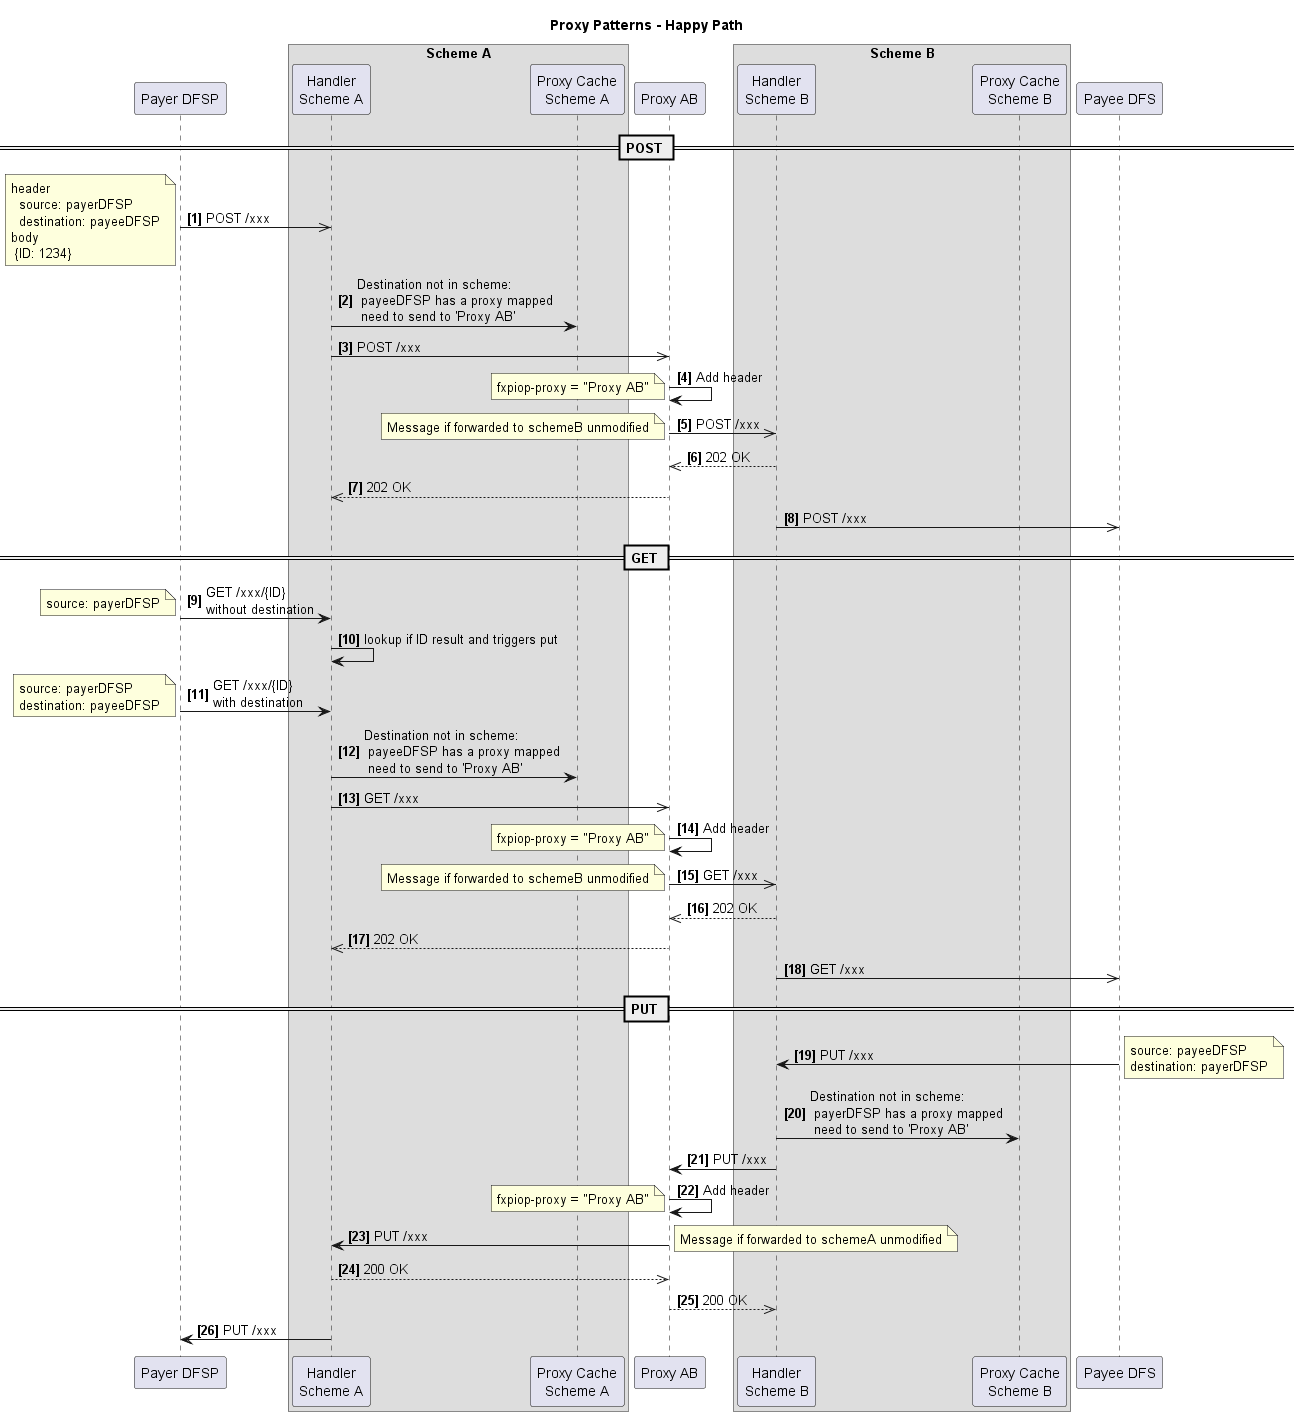
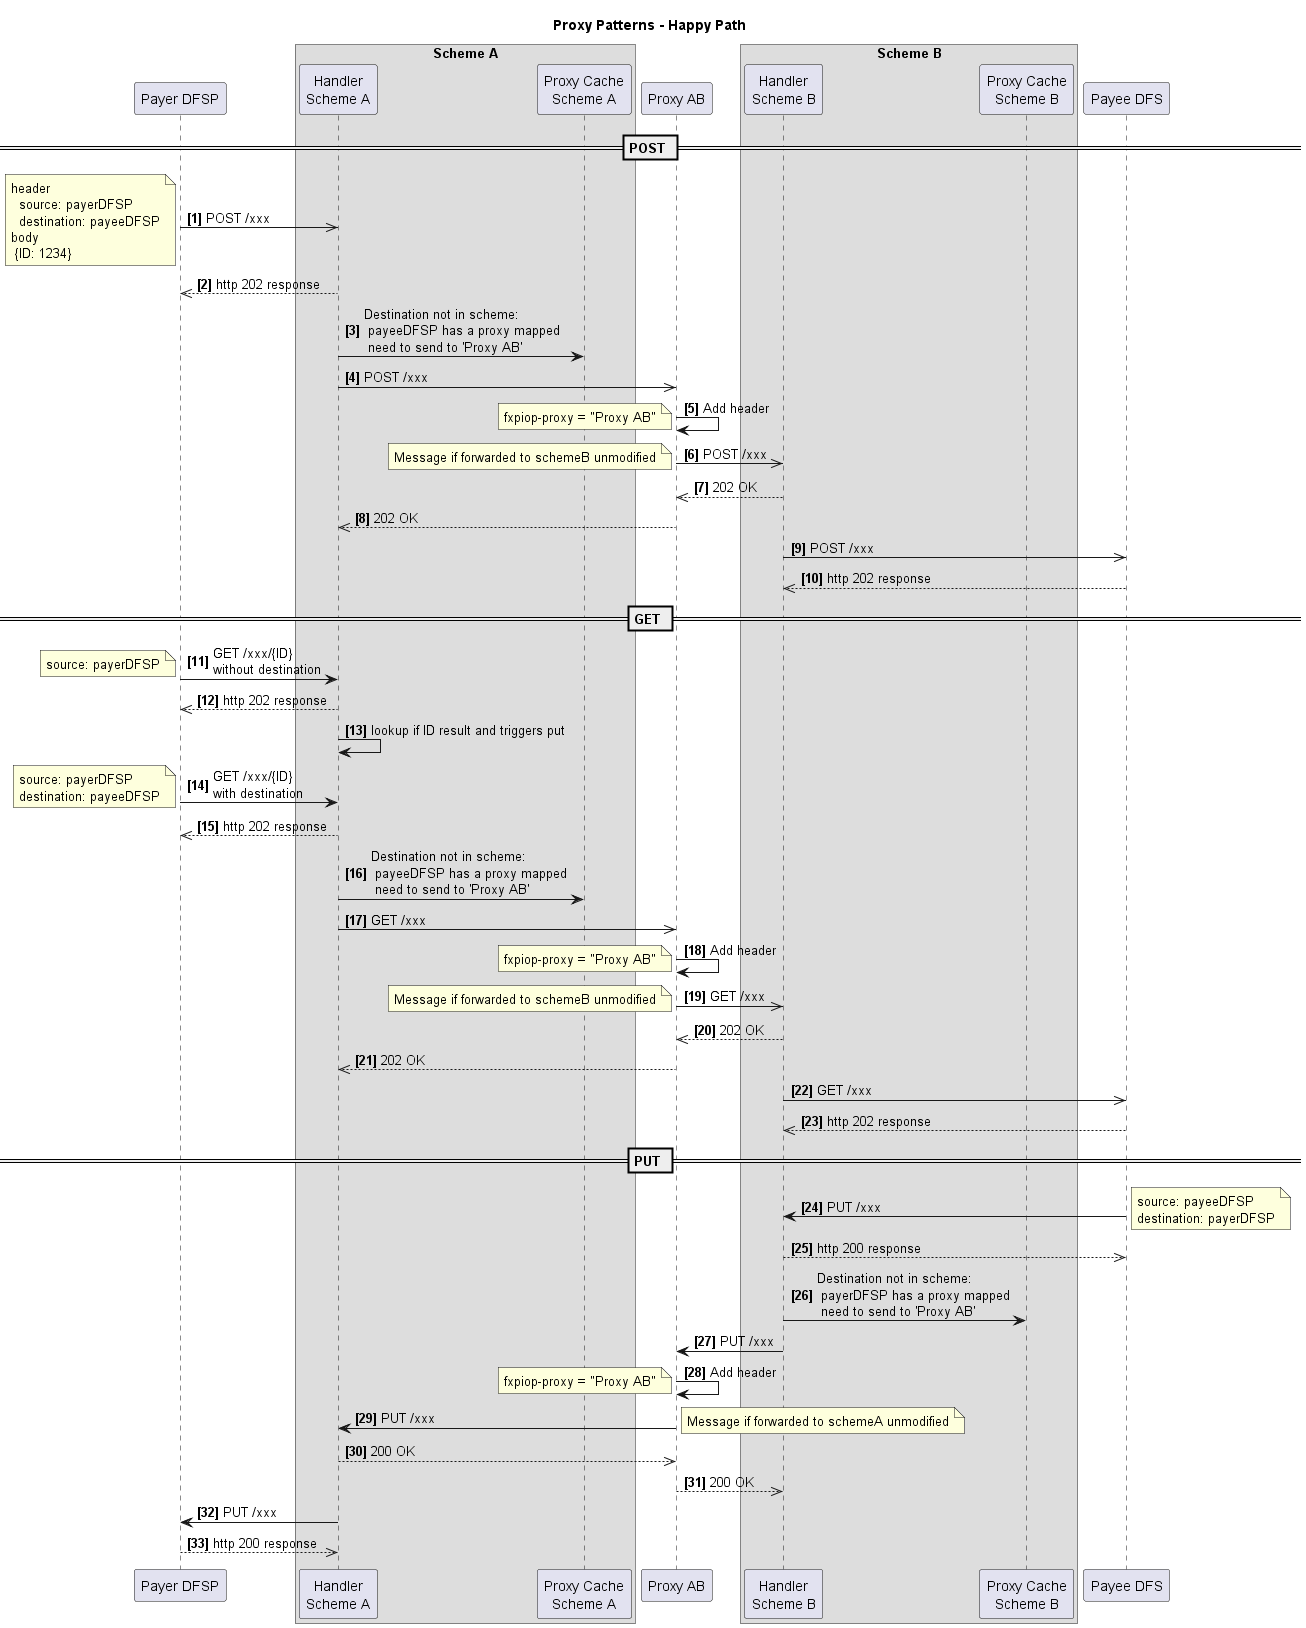
added Get services design and http responses to existing diagrams

Changed region(s): [[0.0, 0.0, 1.0, 1.0], [0.5543, 0.6525, 0.9854, 0.8079], [0.1232, 0.6836, 0.154, 0.7147]]

diff --git a/Design/Readme.md b/Design/Readme.md
@@ -25,7 +25,11 @@ There are certain general patterns that emerge
 2. [P2P](./P2P.md)
 
 ## Admin API - defining Proxy Participants
-![Admin API](SettingUpProxys.png)
+![Admin API](./SettingUpProxys.png)
+
+## Get Services
+![Services](./Proxy%20pattern%20-%20services.png)
 
 ## Clearing Accounts for Inter-scheme FX transfers
 ![Clearing Accounts](./InterschemeAccounts-Clearing.png)
+
